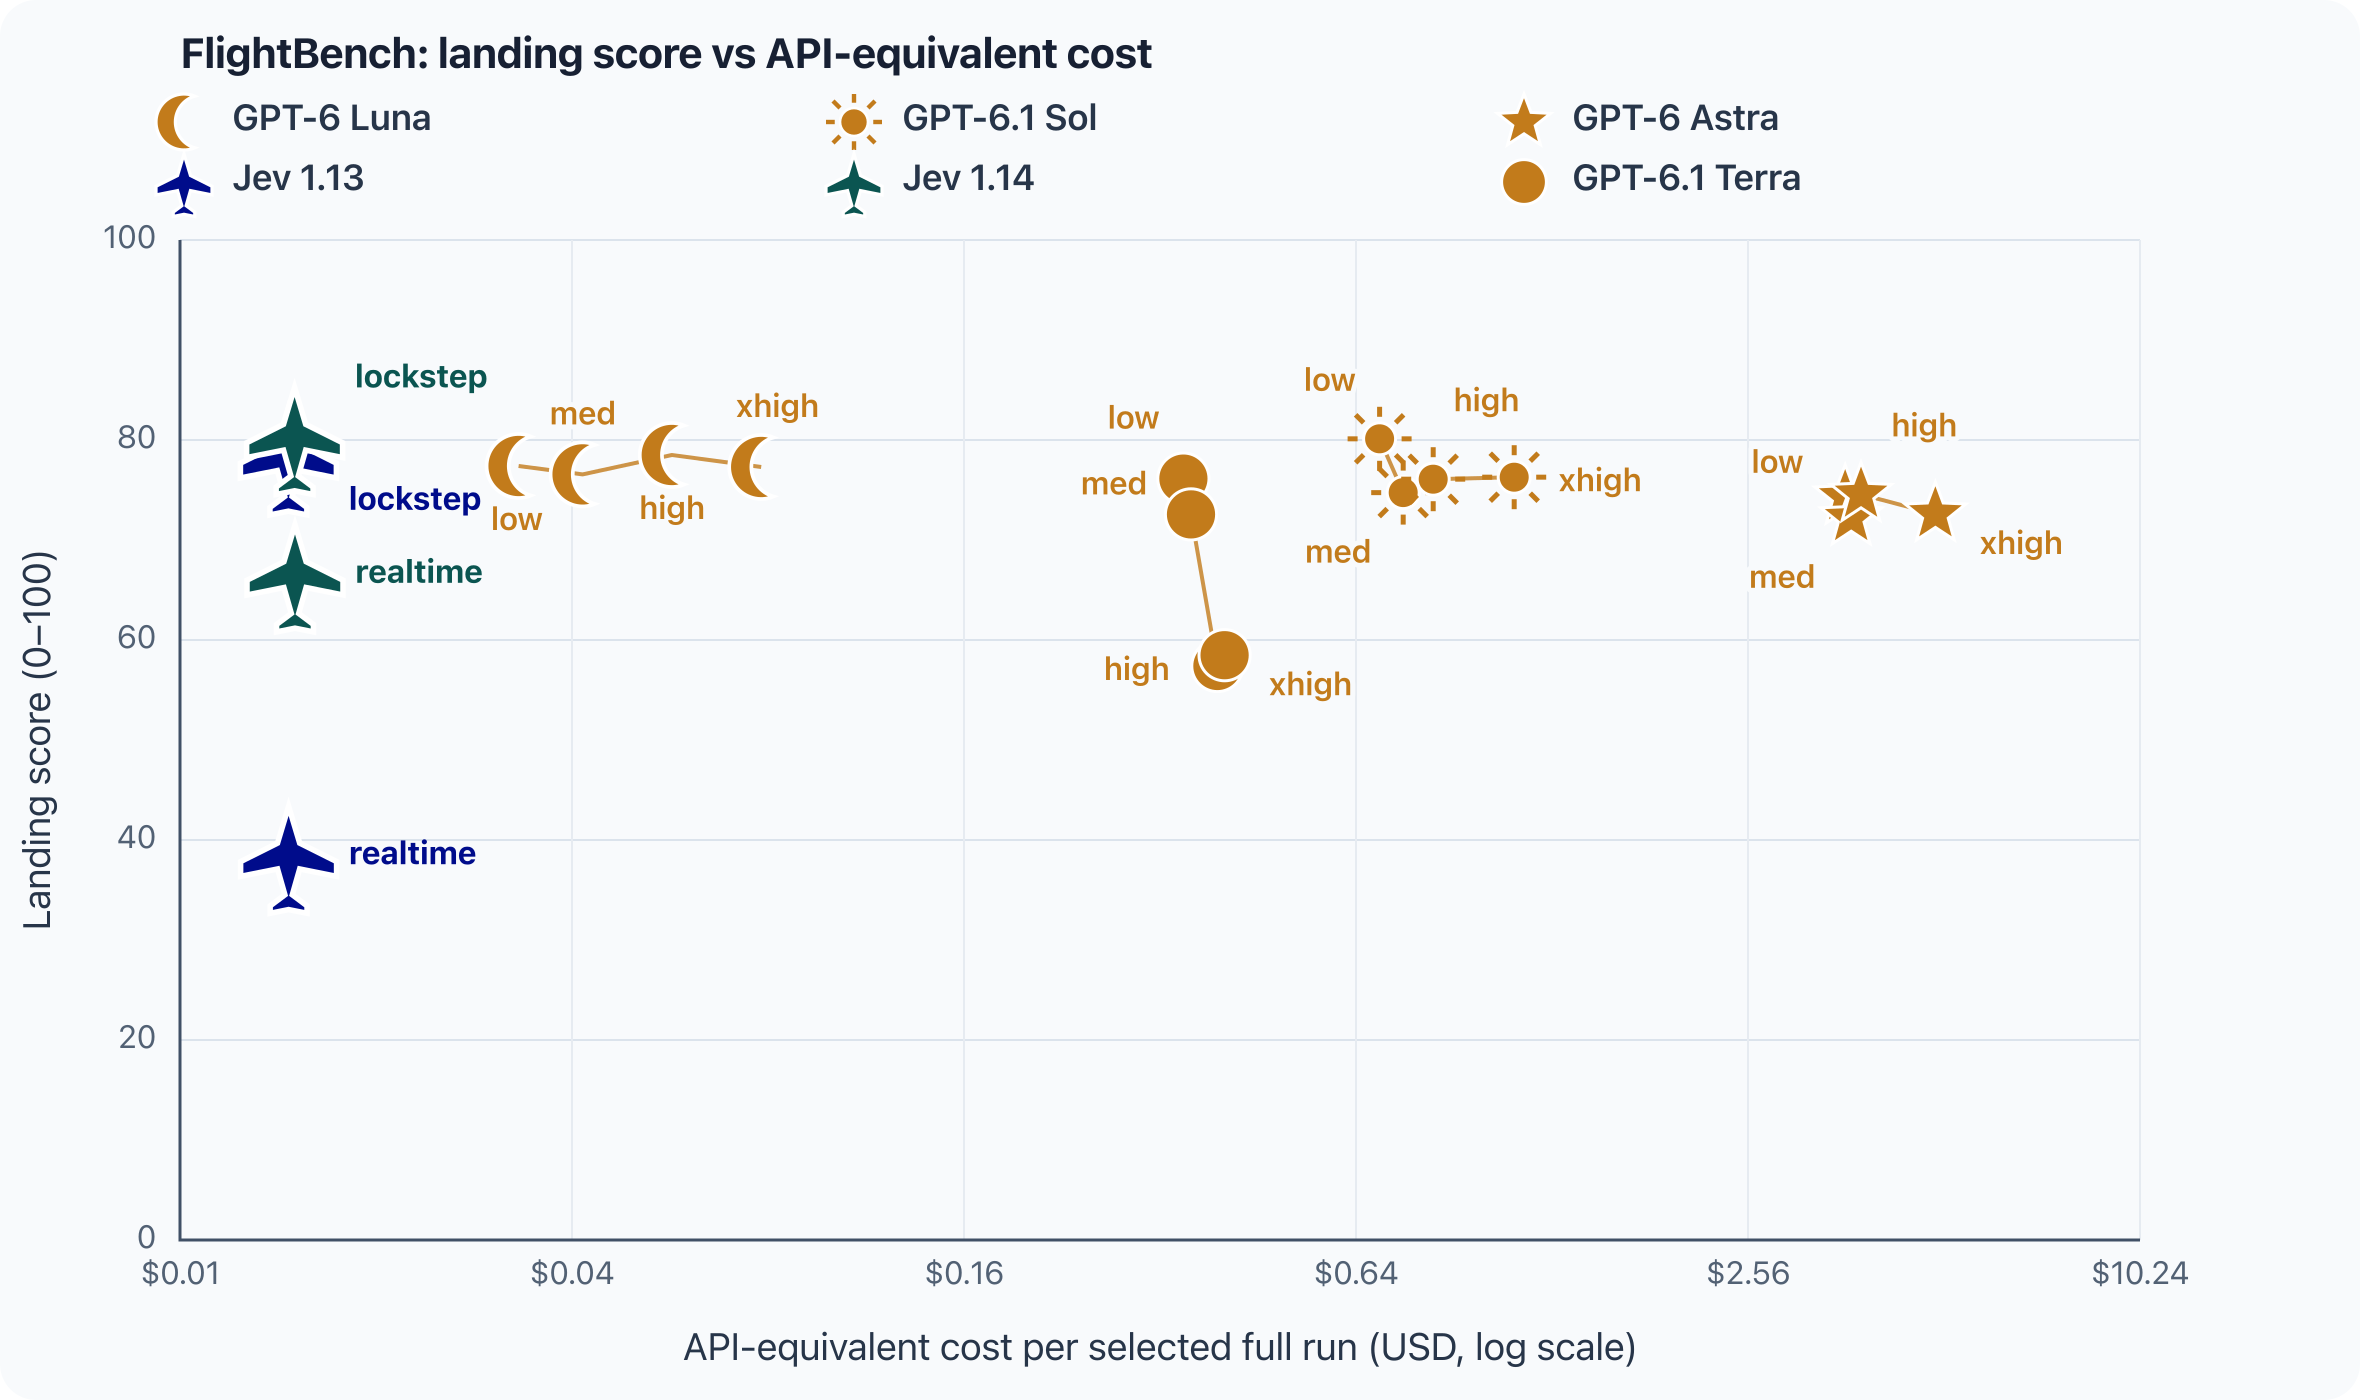
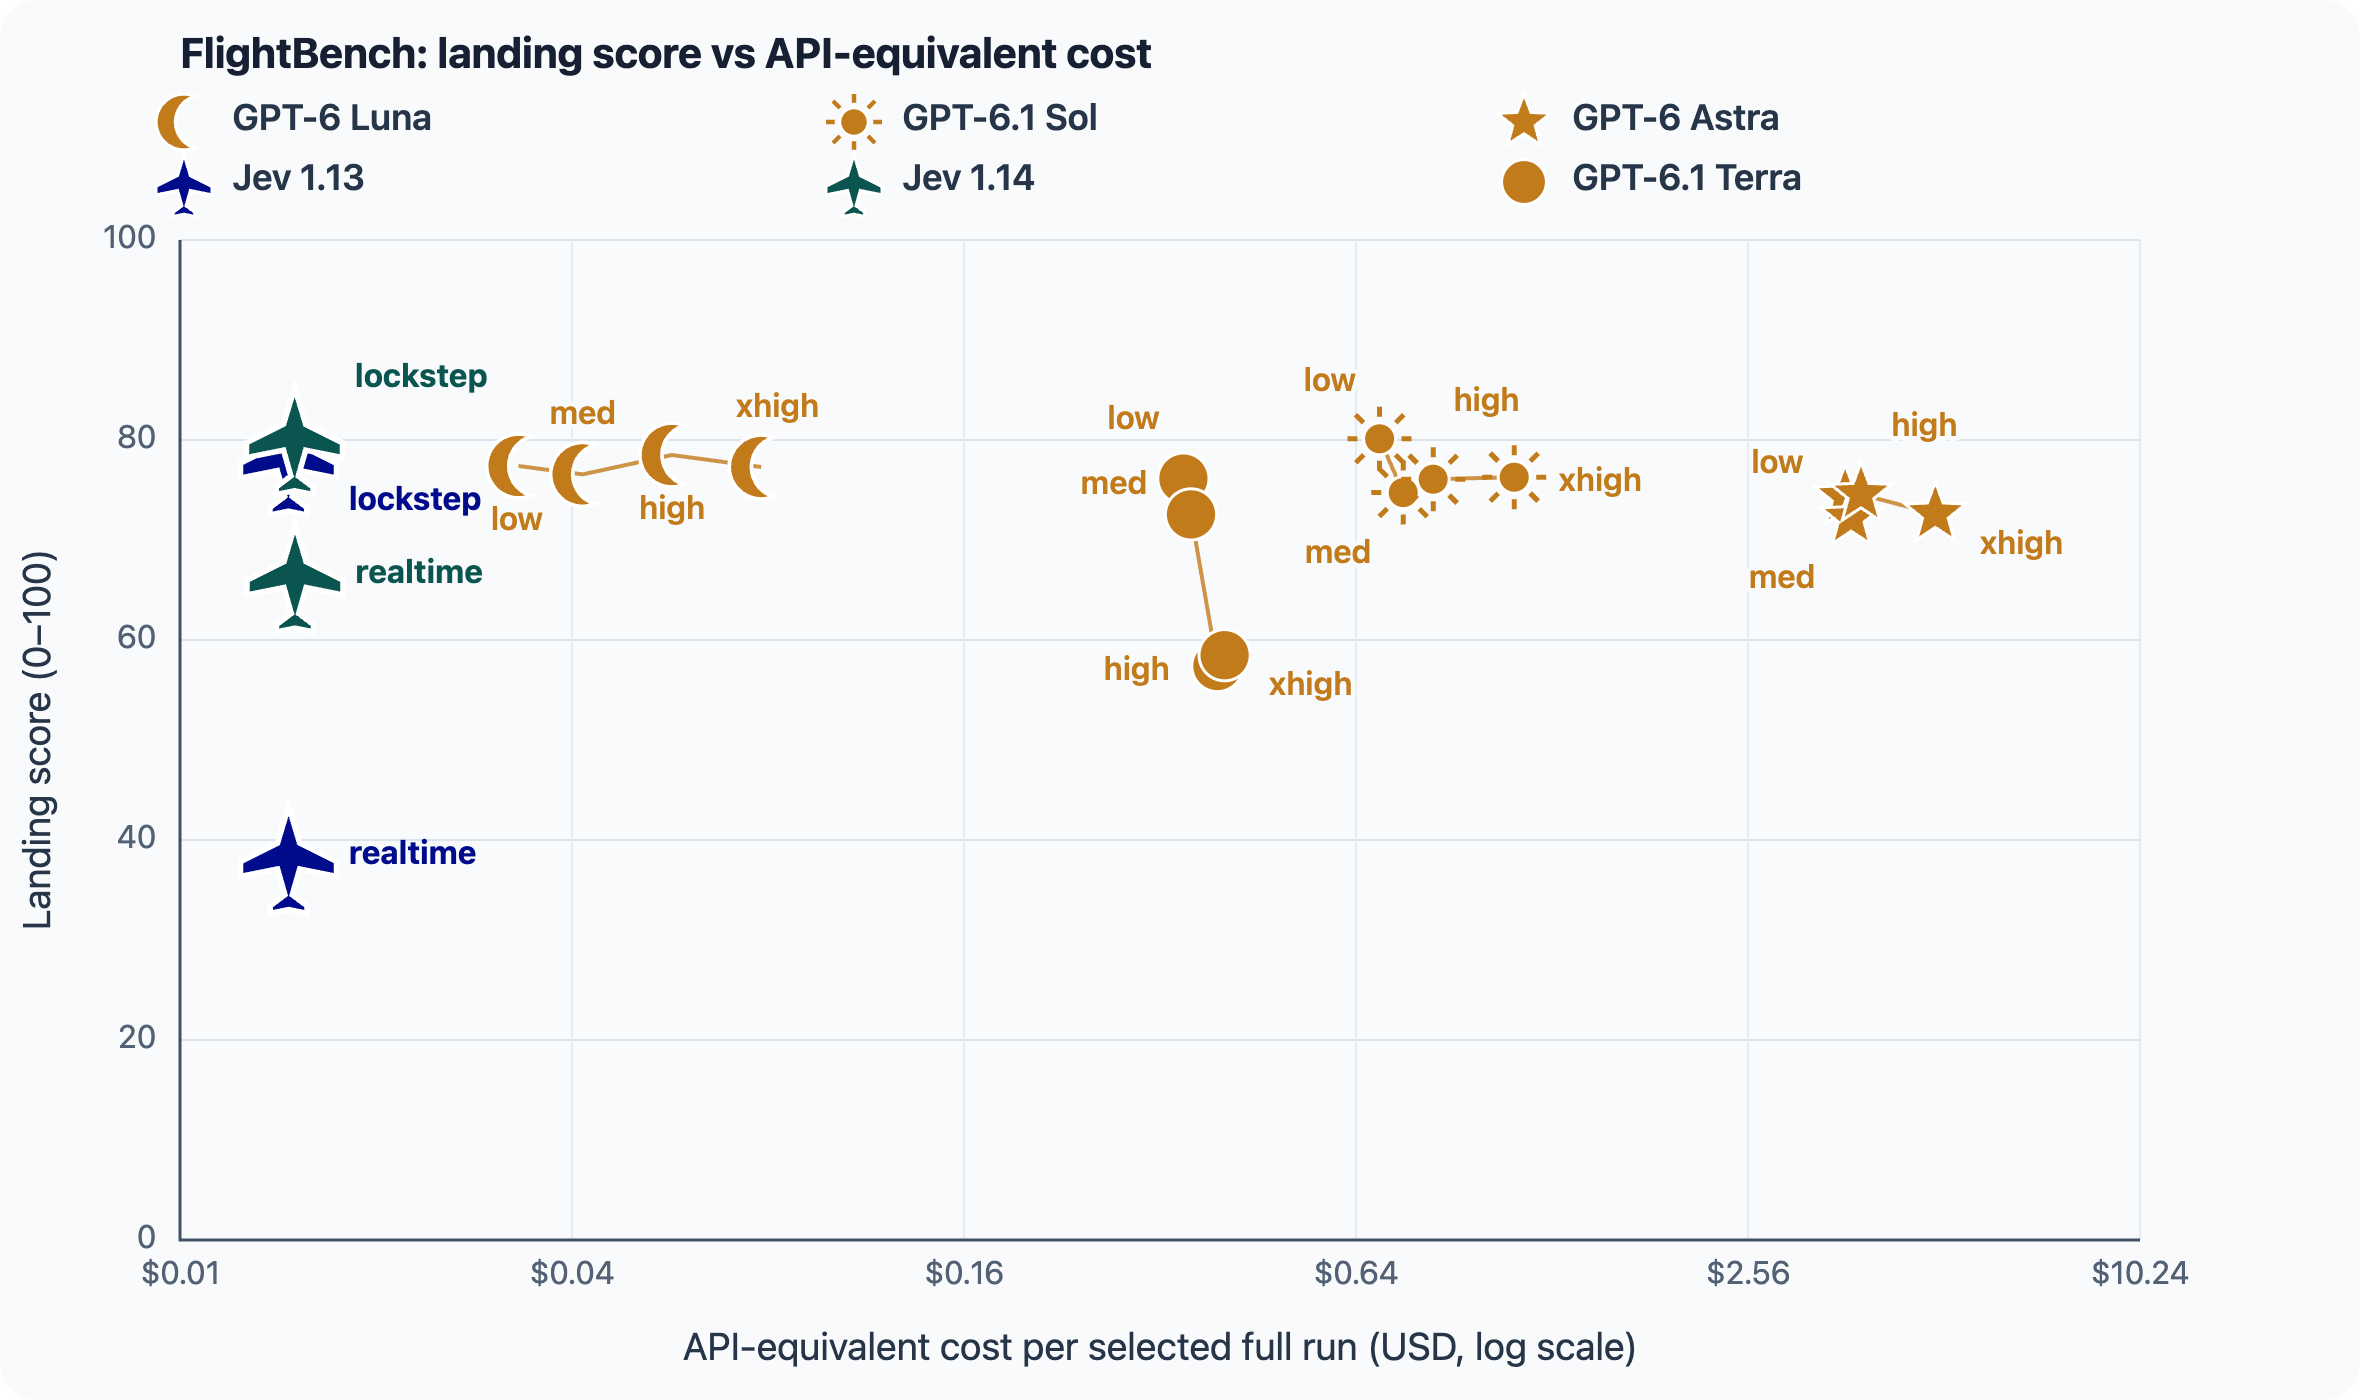
Keep README image clicks in a viewable image format
Use high-resolution PNGs and explicit matching image links while preserving SVG sources and theme-specific variants.

Constraint: Preserve image content and appearance without changing application behavior.
Confidence: high
Scope-risk: narrow
Tested: Four PNG link checks; browser click checks; zero-pixel-difference raster comparisons; git diff --check.
Not-tested: Live GitHub README rendering after push.

diff --git a/README.md b/README.md
@@ -75,8 +75,8 @@ For Jev and Codex authentication, [see the setup guide](docs/controller-setup/RE
 
 ## Benchmark results — landing score and API cost
 
-![FlightBench benchmark results (dark theme)](docs/evaluations/2026-10-22-scoring-v2/benchmark-dark.svg#gh-dark-mode-only)
-![FlightBench benchmark results (light theme)](docs/evaluations/2026-10-22-scoring-v2/benchmark-light.svg#gh-light-mode-only)
+[![FlightBench benchmark results (dark theme)](docs/evaluations/2026-10-22-scoring-v2/benchmark-dark.png#gh-dark-mode-only)](docs/evaluations/2026-10-22-scoring-v2/benchmark-dark.png)
+[![FlightBench benchmark results (light theme)](docs/evaluations/2026-10-22-scoring-v2/benchmark-light.png#gh-light-mode-only)](docs/evaluations/2026-10-22-scoring-v2/benchmark-light.png)
 
 **In our evaluation, all the Codex/LLM controllers failed to achieve a successful realtime landing;
 their results above are lockstep runs.**
@@ -85,7 +85,7 @@ their results above are lockstep runs.**
 
 ## Landing Score vs. Estimated API Cost
 
-![Landing score versus API-equivalent cost](docs/evaluations/2026-10-22-scoring-v2/landing-score-vs-api-cost.svg)
+[![Landing score versus API-equivalent cost](docs/evaluations/2026-10-22-scoring-v2/landing-score-vs-api-cost.png)](docs/evaluations/2026-10-22-scoring-v2/landing-score-vs-api-cost.png)
 
 ## Landing score calculation
 
@@ -93,7 +93,7 @@ their results above are lockstep runs.**
 
 ## How is Jev's API used?
 
-![How Jev steers FlightBench: an aircraft-state snapshot leads to four textual Choice answers, fixed commands, and a JSBSim physics step](docs/jev-control-loop.svg)
+[![How Jev steers FlightBench: an aircraft-state snapshot leads to four textual Choice answers, fixed commands, and a JSBSim physics step](docs/jev-control-loop.png)](docs/jev-control-loop.png)
 
 *Illustrative choices from the mock request and response below.*
 
